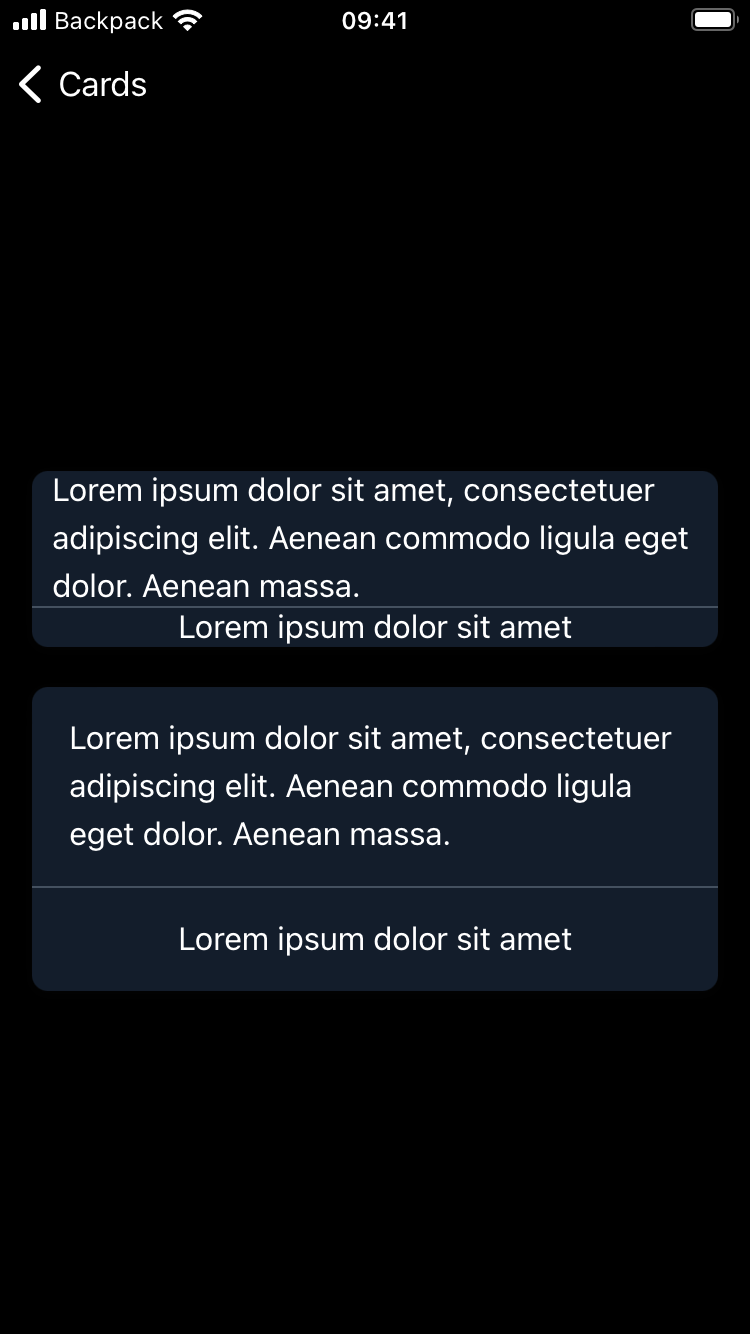
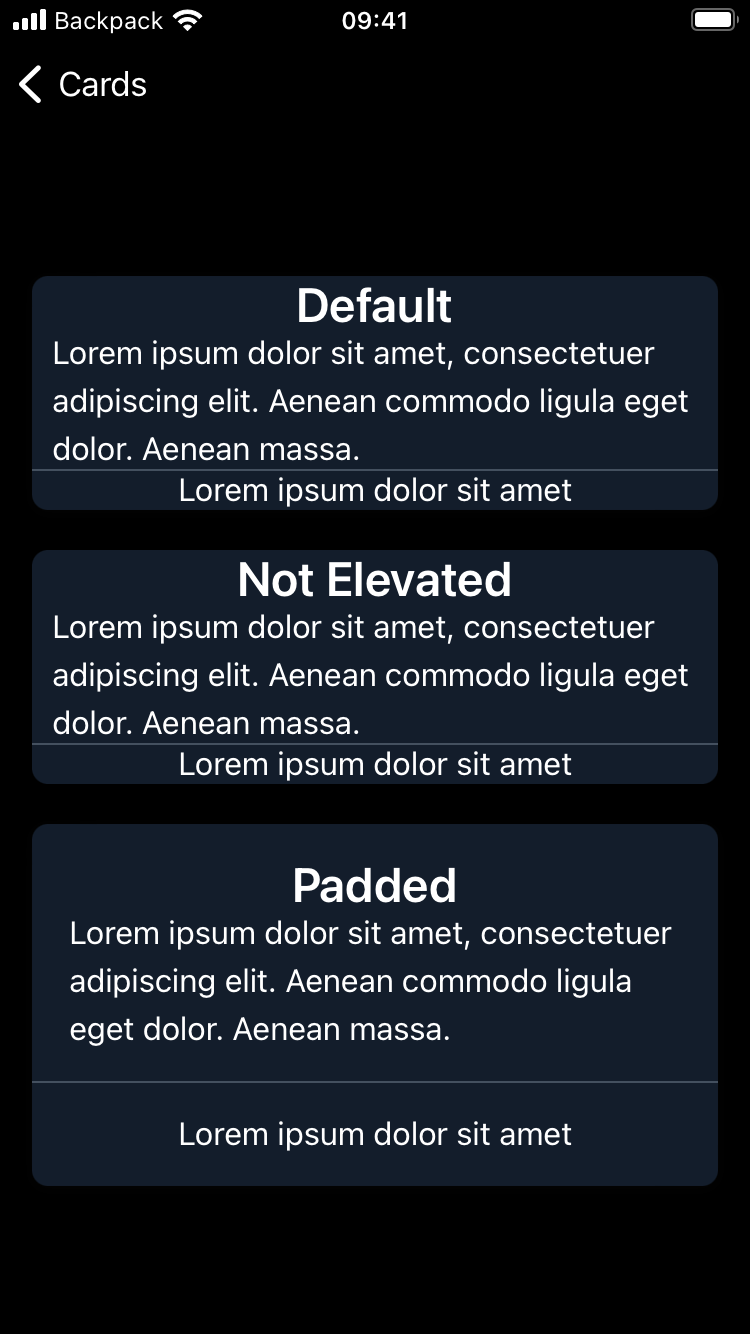
Add isElevated property for BpkDividedCard SwiftUI version

diff --git a/Backpack-SwiftUI/Card/Classes/BPKDividedCard.swift b/Backpack-SwiftUI/Card/Classes/BPKDividedCard.swift
@@ -19,20 +19,23 @@
 import SwiftUI
 
 public struct BPKDividedCard<PrimaryContent: View, SecondaryContent: View>: View {
+    private let isElevated: Bool
     private let primaryContent: PrimaryContent
     private let secondaryContent: SecondaryContent
     private var tapAction: () -> Void = {}
 
     public init(
+        isElevated: Bool = true,
         @ViewBuilder primaryContent: () -> PrimaryContent,
         @ViewBuilder secondaryContent: () -> SecondaryContent
     ) {
+        self.isElevated = isElevated
         self.primaryContent = primaryContent()
         self.secondaryContent = secondaryContent()
     }
 
     public var body: some View {
-        BPKCard(padding: .none) {
+        BPKCard(padding: .none, elevation: isElevated ? .default : .none) {
             VStack(spacing: 0) {
                 primaryContent
                 Color(BPKColor.lineColor)
@@ -53,25 +56,40 @@ public struct BPKDividedCard<PrimaryContent: View, SecondaryContent: View>: View
 }
 
 struct BPKDividedCard_Priviews: PreviewProvider {
+
+    private static func primaryContent(title: String) -> some View {
+        let message =  "Lorem ipsum dolor sit amet, consectetuer adipiscing elit. " +
+            "Aenean commodo ligula eget dolor. Aenean massa."
+        return VStack {
+            BPKText(title, style: .heading3)
+            BPKText(message)
+                .lineLimit(3)
+        }
+    }
+    
+    private static func secondaryContent() -> some View {
+        BPKText("Lorem ipsum dolor sit amet")
+    }
+    
     static var previews: some View {
         VStack(spacing: 20) {
             BPKDividedCard {
-                let message = "Lorem ipsum dolor sit amet, consectetuer adipiscing elit. " +
-                "Aenean commodo ligula eget dolor. Aenean massa."
-                BPKText(message)
-                    .lineLimit(3)
+                primaryContent(title: "Default")
             } secondaryContent: {
-                BPKText("Lorem ipsum dolor sit amet")
+                secondaryContent()
+            }
+            
+            BPKDividedCard(isElevated: false) {
+                primaryContent(title: "Not Elevated")
+            } secondaryContent: {
+                secondaryContent()
             }
             
             BPKDividedCard {
-                let message = "Lorem ipsum dolor sit amet, consectetuer adipiscing elit. " +
-                "Aenean commodo ligula eget dolor. Aenean massa."
-                BPKText(message)
-                    .lineLimit(3)
+                primaryContent(title: "Padded")
                     .padding()
             } secondaryContent: {
-                BPKText("Lorem ipsum dolor sit amet")
+                secondaryContent()
                     .padding()
             }
         }

diff --git a/Backpack-SwiftUI/Tests/Card/BPKDividedCardTests.swift b/Backpack-SwiftUI/Tests/Card/BPKDividedCardTests.swift
@@ -21,19 +21,39 @@ import SwiftUI
 @testable import Backpack_SwiftUI
 
 class BPKDividedCardTests: XCTestCase {
-
+        
+    private func primaryContent(title: String) -> some View {
+        VStack {
+            BPKText(title, style: .heading3)
+            BPKText("""
+                Lorem ipsum dolor sit amet,
+                consectetuer adipiscing elit.
+                Aenean commodo ligula eget dolor.
+            """).lineLimit(3)
+        }
+    }
+    
+    private func secondaryContent() -> some View {
+        BPKText("Lorem ipsum dolor sit amet")
+    }
+    
     func testDividedCardDefault() {
         assertSnapshot(
-            BPKDividedCard
-            {
-                BPKText("""
-                    Lorem ipsum dolor sit amet,
-                    consectetuer adipiscing elit.
-                    Aenean commodo ligula eget dolor.
-                """)
-                .lineLimit(3)
+            BPKDividedCard {
+                primaryContent(title: "Default")
             } secondaryContent: {
-                BPKText("Lorem ipsum dolor sit amet")
+                secondaryContent()
+            }
+                .padding()
+        )
+    }
+    
+    func testDividedCardWithoutElevation() {
+        assertSnapshot(
+            BPKDividedCard(isElevated: false) {
+                primaryContent(title: "Not Elevated")
+            } secondaryContent: {
+                secondaryContent()
             }
                 .padding()
         )
@@ -41,17 +61,11 @@ class BPKDividedCardTests: XCTestCase {
     
     func testDividedCardWithPaddedContent() {
         assertSnapshot(
-            BPKDividedCard
-            {
-                BPKText("""
-                    Lorem ipsum dolor sit amet,
-                    consectetuer adipiscing elit.
-                    Aenean commodo ligula eget dolor.
-                """)
-                .lineLimit(3)
-                .padding()
+            BPKDividedCard {
+                primaryContent(title: "Padded")
+                    .padding()
             } secondaryContent: {
-                BPKText("Lorem ipsum dolor sit amet")
+                secondaryContent()
                     .padding()
             }
                 .padding()

diff --git a/Example/Backpack/SwiftUI/Components/Card/DividedCardExampleView.swift b/Example/Backpack/SwiftUI/Components/Card/DividedCardExampleView.swift
@@ -22,25 +22,39 @@ import Backpack_SwiftUI
 
 struct DividedCardExampleView: View {
     
+    private func primaryContent(title: String) -> some View {
+        let message =  "Lorem ipsum dolor sit amet, consectetuer adipiscing elit. " +
+            "Aenean commodo ligula eget dolor. Aenean massa."
+        return VStack {
+            BPKText(title, style: .heading3)
+            BPKText(message)
+                .lineLimit(3)
+        }
+    }
+    
+    private func secondaryContent() -> some View {
+        BPKText("Lorem ipsum dolor sit amet")
+    }
+    
     var body: some View {
         VStack(spacing: 20) {
             BPKDividedCard {
-                let message = "Lorem ipsum dolor sit amet, consectetuer adipiscing elit. " +
-                "Aenean commodo ligula eget dolor. Aenean massa."
-                BPKText(message)
-                    .lineLimit(3)
+                primaryContent(title: "Default")
             } secondaryContent: {
-                BPKText("Lorem ipsum dolor sit amet")
+                secondaryContent()
+            }
+            
+            BPKDividedCard(isElevated: false) {
+                primaryContent(title: "Not Elevated")
+            } secondaryContent: {
+                secondaryContent()
             }
             
             BPKDividedCard {
-                let message = "Lorem ipsum dolor sit amet, consectetuer adipiscing elit. " +
-                "Aenean commodo ligula eget dolor. Aenean massa."
-                BPKText(message)
-                    .lineLimit(3)
+                primaryContent(title: "Padded")
                     .padding()
             } secondaryContent: {
-                BPKText("Lorem ipsum dolor sit amet")
+                secondaryContent()
                     .padding()
             }
         }

diff --git a/Backpack-SwiftUI/Card/README.md b/Backpack-SwiftUI/Card/README.md
@@ -86,3 +86,25 @@ BPKDividedCard {
     print("Card tapped!")
 }
 ```
+
+**Not Elevated**
+Elevation is enabled by default.
+```swift
+BPKDividedCard(isElevated: false) {
+    BPKText("PrimaryContent")
+} secondaryContent: {
+    BPKText("SecondaryContent")
+}
+```
+
+**Padded**
+```swift
+BPKDividedCard {
+    BPKText("PrimaryContent")
+        .padding()
+} secondaryContent: {
+    BPKText("SecondaryContent")
+        .padding()
+}
+```
+
